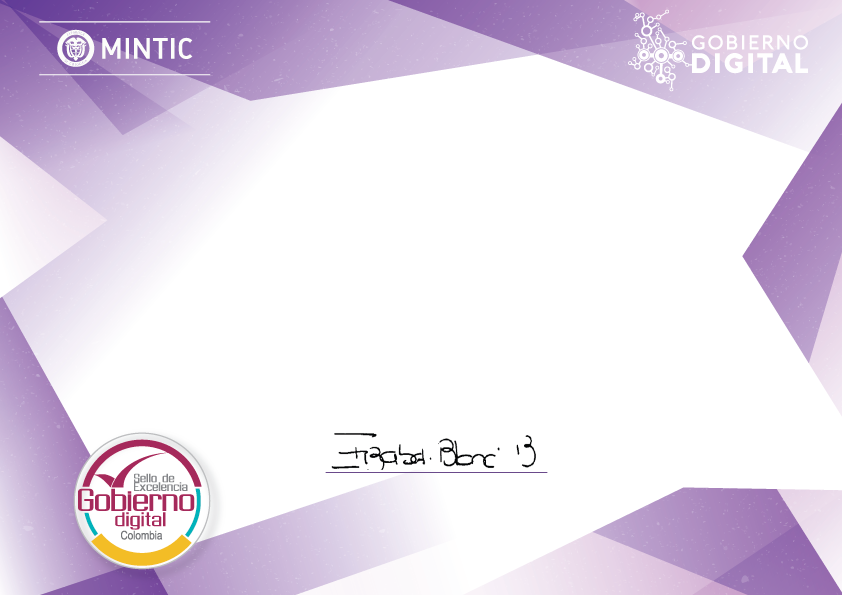
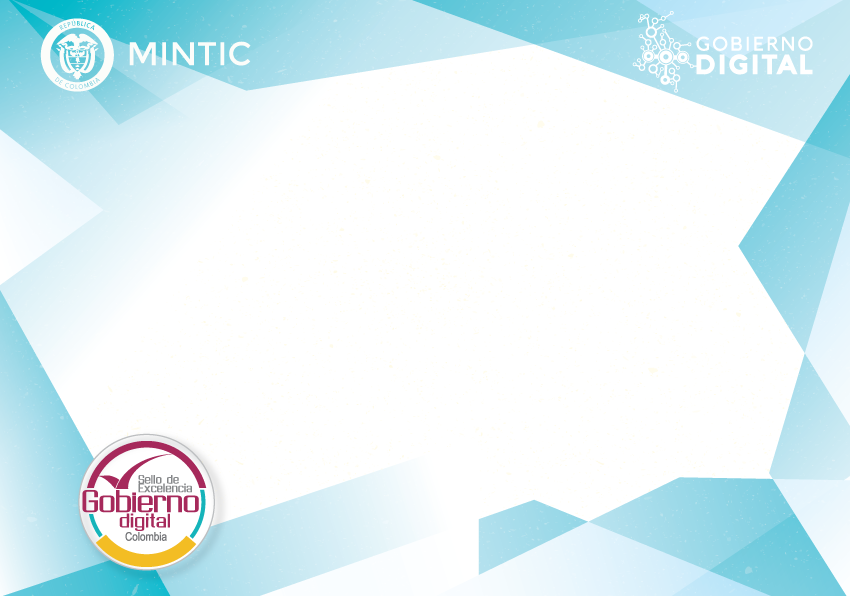
diploma

diff --git a/app/controllers/auto_service.js b/app/controllers/auto_service.js
@@ -108,7 +108,7 @@ var service_controller = function () {
 				font: font,
 				size: 60,
 				colorspace: 'rgb',
-				color: 0x694a8b
+				color: 0x3eb1c8
 			}
 		)
 		_y -= 25
@@ -119,7 +119,7 @@ var service_controller = function () {
 				font: font,
 				size: 30,
 				colorspace: 'rgb',
-				color: 0x694a8b
+				color: 0x3eb1c8
 			}
 		)
 		_y -= 50
@@ -231,19 +231,19 @@ var service_controller = function () {
 				color: 0X5f676a
 			}
 		)
-		cxt.writeText('DIRECTORA DE GOBIERNO DIGITAL', 338, 595-488,
+		cxt.writeText('DIRECCIÓN DE GOBIERNO DIGITAL', 338, 595-440,
 			{
 				font: font,
 				size: 16,
 				colorspace: 'rgb',
-				color: 0x694a8b
+				color: 0x3eb1c8
 			}
 		)
 		_status.timestamp = new Date(_status.timestamp)
 		let date = _status.timestamp.getFullYear() + '-' +(_status.timestamp.getMonth()+1)+ '-' + _status.timestamp.getDate()
 		size = font.calculateTextDimensions(date,15);
 		center = centerline - size.width / 2
-		cxt.writeText(date, center, 595-525,
+		cxt.writeText(date, center, 595-473,
 			{
 				font: font,
 				size: 11,
@@ -263,7 +263,7 @@ var service_controller = function () {
 		var cxt = pdfWriter.startPageContentContext(page)
 		let font = pdfWriter.getFontForFile('./app/assets/UniversCondensed.ttf')
 		cxt.drawImage(0, 0, './app/assets/diploma.png')
-		let _y = 480
+		let _y = 460
 		let size = font.calculateTextDimensions('CERTIFICADO',60);
 		let center = centerline - size.width / 2
 		cxt.writeText('CERTIFICADO', center,_y,
@@ -271,7 +271,7 @@ var service_controller = function () {
 				font: font,
 				size: 60,
 				colorspace: 'rgb',
-				color: 0x694a8b
+				color: 0x3eb1c8
 			}
 		)
 		_y -= 25
@@ -282,7 +282,7 @@ var service_controller = function () {
 				font: font,
 				size: 30,
 				colorspace: 'rgb',
-				color: 0x694a8b
+				color: 0x3eb1c8
 			}
 		)
 		_y -= 50
@@ -433,19 +433,19 @@ var service_controller = function () {
 				}
 			)
 		}
-		cxt.writeText('DIRECTORA DE GOBIERNO DIGITAL', 338, 595-488,
+		cxt.writeText('DIRECCIÓN DE GOBIERNO DIGITAL', 338, 595-440,
 			{
 				font: font,
 				size: 16,
 				colorspace: 'rgb',
-				color: 0x694a8b
+				color: 0x3eb1c8
 			}
 		)
 		_status.timestamp = new Date(_status.timestamp)
 		let date = _status.timestamp.getFullYear() + '-' +(_status.timestamp.getMonth()+1)+ '-' + _status.timestamp.getDate()
-		size = font.calculateTextDimensions(date,15);
+		size = font.calculateTextDimensions(date,16);
 		center = centerline - size.width / 2
-		cxt.writeText(date, center, 595-525,
+		cxt.writeText(date, center, 595-473,
 			{
 				font: font,
 				size: 11,
